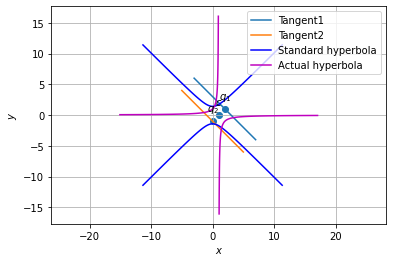
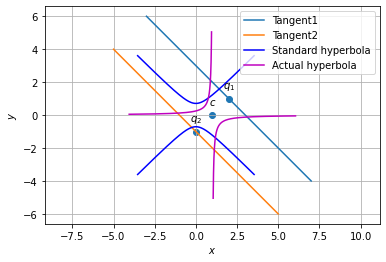
Add files via upload

diff --git a/Assignment_7/Assignment7.py b/Assignment_7/Assignment7.py
@@ -15,8 +15,8 @@ sys.path.insert(0, '/storage/emulated/0/tlc/school/ncert/linman/codes/CoordGeo')
 #setting up plot
 fig = plt.figure()
 ax = fig.add_subplot(111, aspect='equal')
-len = 100
-y = np.linspace(-8,8,len)
+len = 200
+y = np.linspace(-5,5,len)
 #hyper parameters
 V = 1/2*np.array(([0,1],[1,0]))
 u = 1/2*np.array(([0,-1]))
@@ -41,7 +41,7 @@ xStandardHyperRight = np.vstack((x,y))
 #Affine Parameters
 c = -Vinv@u
 #print(c)
-R =  np.array(([0,1],[1,0]))
+R =  np.array(([0,1/2],[1/2,0]))
 ParamMatrix = np.array(([a,0],[0,b]))
 
 #Generating the eigen hyperbola

diff --git a/Assignment_7/document7.tex b/Assignment_7/document7.tex
@@ -225,8 +225,8 @@ $\therefore$ The tangents are given by
 \end{align}
 The desired equations of all lines having slope -1 that are tangents to the curve $\frac{1}{x-1}, x \neq 1$ are given by
 \begin{align}
-	x + y - 3 = 0\\
-	x + y + 1 = 0
+	\myvec{1 & 1}\vec{x} &= 3 \\
+	\myvec{1 & 1}\vec{x} &= -1 
 \end{align}
 The above results are verified in the following figure.
 \begin{figure}[h!] \label{fig:tangents}
